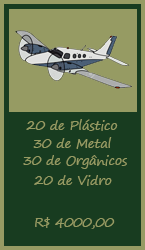
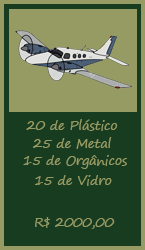
modificações para máscara de valores, distribuição de itens a cada rodada e mudança na carta do avião

Changed region(s): [[0.1655, 0.532, 0.3586, 0.672], [0.2207, 0.7, 0.3862, 0.756], [0.3586, 0.868, 0.4414, 0.924]]

diff --git a/BancoImobiliario/src/br/org/recresiduos/telas/GameBoard.java b/BancoImobiliario/src/br/org/recresiduos/telas/GameBoard.java
@@ -10,8 +10,10 @@ import br.org.recresiduos.constantes.CorJogador;
 import br.org.recresiduos.constantes.TipodeMateriais;
 import br.org.recresiduos.entidades.Casa;
 import br.org.recresiduos.entidades.Jogador;
+import br.org.recresiduos.uteis.MascaraValor;
 import java.awt.Component;
 import java.awt.Cursor;
+import java.text.DecimalFormat;
 import java.util.ArrayList;
 import java.util.List;
 import javax.swing.ImageIcon;
@@ -389,6 +391,16 @@ public class GameBoard extends javax.swing.JFrame {
             poePeaoCasa(nroCasa, j.getPeaoJogador());
             // atualiza o número da casa onde o jogador se encontra
             j.setNumeroCasa(nroCasa);
+            // se completou uma volta no tabuleiro, ganha itens extras
+            if(j.getNumeroCasa()==1){
+                j.getMaterialColetado().setQtdeMetal(j.getMaterialColetado().getQtdeMetal()+3);
+                j.getMaterialColetado().setQtdeMadeira(j.getMaterialColetado().getQtdeMadeira()+3);
+                j.getMaterialColetado().setQtdePlastico(j.getMaterialColetado().getQtdePlastico()+3);
+                j.getMaterialColetado().setQtdePapel(j.getMaterialColetado().getQtdePapel()+3);
+                j.getMaterialColetado().setQtdeOrganico(j.getMaterialColetado().getQtdeOrganico()+3);
+                j.getMaterialColetado().setQtdeVidro(j.getMaterialColetado().getQtdeVidro()+3);
+            }
+                
             // força pausa de 0,01 segundos
             try {
                 Thread.sleep(300);
@@ -531,21 +543,24 @@ public class GameBoard extends javax.swing.JFrame {
     }
 
     private void atualizaInformacaoJogador(Jogador j) {
+
+
         switch (j.getCor()) {
             case AMARELO:
-                jLValorSaldoAmarelo.setText(String.valueOf(j.getSaldo()));
+//                jLValorSaldoAmarelo.setText(String.valueOf(j.getSaldo()));
+                jLValorSaldoAmarelo.setText(new MascaraValor(j.getSaldo()).numeroFormatado());
                 jLQtdeObjetivoAmarelo.setText(String.valueOf(j.getNumeroObjetivosConcluidos()));
                 break;
             case AZUL:
-                jLValorSaldoAzul.setText(String.valueOf(j.getSaldo()));
+                jLValorSaldoAzul.setText(new MascaraValor(j.getSaldo()).numeroFormatado());
                 jLQtdeObjetivoAzul.setText(String.valueOf(j.getNumeroObjetivosConcluidos()));
                 break;
             case BRANCO:
-                jLValorSaldoBranco.setText(String.valueOf(j.getSaldo()));
+                jLValorSaldoBranco.setText(new MascaraValor(j.getSaldo()).numeroFormatado());
                 jLQtdeObjetivoBranco.setText(String.valueOf(j.getNumeroObjetivosConcluidos()));
                 break;
             case PRETO:
-                jLValorSaldoPreto.setText(String.valueOf(j.getSaldo()));
+                jLValorSaldoPreto.setText(new MascaraValor(j.getSaldo()).numeroFormatado());
                 jLQtdeObjetivoPreto.setText(String.valueOf(j.getNumeroObjetivosConcluidos()));
                 break;
         }
@@ -690,6 +705,7 @@ public class GameBoard extends javax.swing.JFrame {
         jLP5.setBorder(javax.swing.BorderFactory.createLineBorder(new java.awt.Color(0, 0, 0)));
         jLP5.setMaximumSize(new java.awt.Dimension(75, 120));
         jLP5.setMinimumSize(new java.awt.Dimension(75, 120));
+        jLP5.setPreferredSize(new java.awt.Dimension(75, 120));
 
         javax.swing.GroupLayout jLP5Layout = new javax.swing.GroupLayout(jLP5);
         jLP5.setLayout(jLP5Layout);
@@ -731,7 +747,7 @@ public class GameBoard extends javax.swing.JFrame {
         );
         jLP7Layout.setVerticalGroup(
             jLP7Layout.createParallelGroup(javax.swing.GroupLayout.Alignment.LEADING)
-            .addGap(0, 118, Short.MAX_VALUE)
+            .addGap(0, 120, Short.MAX_VALUE)
         );
 
         jLP8.setBackground(new java.awt.Color(153, 255, 153));
@@ -747,7 +763,7 @@ public class GameBoard extends javax.swing.JFrame {
         );
         jLP8Layout.setVerticalGroup(
             jLP8Layout.createParallelGroup(javax.swing.GroupLayout.Alignment.LEADING)
-            .addGap(0, 118, Short.MAX_VALUE)
+            .addGap(0, 120, Short.MAX_VALUE)
         );
 
         jLP9.setBackground(new java.awt.Color(153, 255, 153));
@@ -763,7 +779,7 @@ public class GameBoard extends javax.swing.JFrame {
         );
         jLP9Layout.setVerticalGroup(
             jLP9Layout.createParallelGroup(javax.swing.GroupLayout.Alignment.LEADING)
-            .addGap(0, 118, Short.MAX_VALUE)
+            .addGap(0, 119, Short.MAX_VALUE)
         );
 
         jLP10.setBackground(new java.awt.Color(153, 255, 153));
@@ -779,7 +795,7 @@ public class GameBoard extends javax.swing.JFrame {
         );
         jLP10Layout.setVerticalGroup(
             jLP10Layout.createParallelGroup(javax.swing.GroupLayout.Alignment.LEADING)
-            .addGap(0, 118, Short.MAX_VALUE)
+            .addGap(0, 120, Short.MAX_VALUE)
         );
 
         jLP11.setBackground(new java.awt.Color(153, 255, 153));
@@ -1397,15 +1413,16 @@ public class GameBoard extends javax.swing.JFrame {
         jLNroRodada.setHorizontalAlignment(javax.swing.SwingConstants.CENTER);
         jLNroRodada.setText("Jogada: ");
         jLNroRodada.setHorizontalTextPosition(javax.swing.SwingConstants.CENTER);
-        jLNroRodada.setMaximumSize(new java.awt.Dimension(318, 34));
-        jLNroRodada.setMinimumSize(new java.awt.Dimension(318, 34));
+        jLNroRodada.setMaximumSize(new java.awt.Dimension(257, 34));
+        jLNroRodada.setMinimumSize(new java.awt.Dimension(257, 34));
         jLNroRodada.setOpaque(true);
-        jLNroRodada.setPreferredSize(new java.awt.Dimension(318, 34));
+        jLNroRodada.setPreferredSize(new java.awt.Dimension(257, 34));
 
         jLP4.setBackground(new java.awt.Color(153, 255, 153));
         jLP4.setBorder(javax.swing.BorderFactory.createLineBorder(new java.awt.Color(0, 0, 0)));
         jLP4.setMaximumSize(new java.awt.Dimension(75, 120));
         jLP4.setMinimumSize(new java.awt.Dimension(75, 120));
+        jLP4.setPreferredSize(new java.awt.Dimension(75, 120));
 
         javax.swing.GroupLayout jLP4Layout = new javax.swing.GroupLayout(jLP4);
         jLP4.setLayout(jLP4Layout);
@@ -1477,20 +1494,22 @@ public class GameBoard extends javax.swing.JFrame {
                                 .addPreferredGap(javax.swing.LayoutStyle.ComponentPlacement.RELATED)
                                 .addComponent(jLP2, javax.swing.GroupLayout.PREFERRED_SIZE, javax.swing.GroupLayout.DEFAULT_SIZE, javax.swing.GroupLayout.PREFERRED_SIZE))
                             .addComponent(jBNovoJogo, javax.swing.GroupLayout.PREFERRED_SIZE, javax.swing.GroupLayout.DEFAULT_SIZE, javax.swing.GroupLayout.PREFERRED_SIZE))
-                        .addGap(6, 6, 6)
                         .addGroup(jPFundoTelaLayout.createParallelGroup(javax.swing.GroupLayout.Alignment.LEADING)
-                            .addComponent(jLabel1, javax.swing.GroupLayout.PREFERRED_SIZE, 482, javax.swing.GroupLayout.PREFERRED_SIZE)
                             .addGroup(jPFundoTelaLayout.createSequentialGroup()
-                                .addComponent(jLP3, javax.swing.GroupLayout.PREFERRED_SIZE, javax.swing.GroupLayout.DEFAULT_SIZE, javax.swing.GroupLayout.PREFERRED_SIZE)
-                                .addPreferredGap(javax.swing.LayoutStyle.ComponentPlacement.RELATED)
-                                .addComponent(jLP4, javax.swing.GroupLayout.PREFERRED_SIZE, javax.swing.GroupLayout.DEFAULT_SIZE, javax.swing.GroupLayout.PREFERRED_SIZE)
-                                .addPreferredGap(javax.swing.LayoutStyle.ComponentPlacement.RELATED)
-                                .addGroup(jPFundoTelaLayout.createParallelGroup(javax.swing.GroupLayout.Alignment.LEADING, false)
-                                    .addComponent(jLNroRodada, javax.swing.GroupLayout.PREFERRED_SIZE, 0, Short.MAX_VALUE)
+                                .addGap(6, 6, 6)
+                                .addGroup(jPFundoTelaLayout.createParallelGroup(javax.swing.GroupLayout.Alignment.LEADING)
+                                    .addComponent(jLabel1, javax.swing.GroupLayout.PREFERRED_SIZE, 482, javax.swing.GroupLayout.PREFERRED_SIZE)
                                     .addGroup(jPFundoTelaLayout.createSequentialGroup()
+                                        .addComponent(jLP3, javax.swing.GroupLayout.PREFERRED_SIZE, javax.swing.GroupLayout.DEFAULT_SIZE, javax.swing.GroupLayout.PREFERRED_SIZE)
+                                        .addPreferredGap(javax.swing.LayoutStyle.ComponentPlacement.RELATED)
+                                        .addComponent(jLP4, javax.swing.GroupLayout.PREFERRED_SIZE, javax.swing.GroupLayout.DEFAULT_SIZE, javax.swing.GroupLayout.PREFERRED_SIZE)
+                                        .addPreferredGap(javax.swing.LayoutStyle.ComponentPlacement.RELATED)
                                         .addComponent(jLP5, javax.swing.GroupLayout.PREFERRED_SIZE, javax.swing.GroupLayout.DEFAULT_SIZE, javax.swing.GroupLayout.PREFERRED_SIZE)
                                         .addPreferredGap(javax.swing.LayoutStyle.ComponentPlacement.RELATED)
-                                        .addComponent(jLP6, javax.swing.GroupLayout.PREFERRED_SIZE, javax.swing.GroupLayout.DEFAULT_SIZE, javax.swing.GroupLayout.PREFERRED_SIZE)))))
+                                        .addComponent(jLP6, javax.swing.GroupLayout.PREFERRED_SIZE, javax.swing.GroupLayout.DEFAULT_SIZE, javax.swing.GroupLayout.PREFERRED_SIZE))))
+                            .addGroup(jPFundoTelaLayout.createSequentialGroup()
+                                .addGap(109, 109, 109)
+                                .addComponent(jLNroRodada, javax.swing.GroupLayout.PREFERRED_SIZE, javax.swing.GroupLayout.DEFAULT_SIZE, javax.swing.GroupLayout.PREFERRED_SIZE)))
                         .addGap(8, 8, 8)
                         .addComponent(jBSair, javax.swing.GroupLayout.PREFERRED_SIZE, 0, Short.MAX_VALUE)))
                 .addContainerGap(javax.swing.GroupLayout.DEFAULT_SIZE, Short.MAX_VALUE))
@@ -1509,26 +1528,26 @@ public class GameBoard extends javax.swing.JFrame {
                 .addPreferredGap(javax.swing.LayoutStyle.ComponentPlacement.RELATED)
                 .addGroup(jPFundoTelaLayout.createParallelGroup(javax.swing.GroupLayout.Alignment.LEADING)
                     .addGroup(jPFundoTelaLayout.createSequentialGroup()
-                        .addComponent(jLP4, javax.swing.GroupLayout.DEFAULT_SIZE, javax.swing.GroupLayout.DEFAULT_SIZE, Short.MAX_VALUE)
-                        .addPreferredGap(javax.swing.LayoutStyle.ComponentPlacement.RELATED))
-                    .addGroup(jPFundoTelaLayout.createSequentialGroup()
                         .addGroup(jPFundoTelaLayout.createParallelGroup(javax.swing.GroupLayout.Alignment.LEADING)
-                            .addComponent(jLP7, javax.swing.GroupLayout.DEFAULT_SIZE, javax.swing.GroupLayout.DEFAULT_SIZE, javax.swing.GroupLayout.PREFERRED_SIZE)
-                            .addComponent(jLP8, javax.swing.GroupLayout.DEFAULT_SIZE, javax.swing.GroupLayout.DEFAULT_SIZE, javax.swing.GroupLayout.PREFERRED_SIZE)
-                            .addComponent(jLP10, javax.swing.GroupLayout.DEFAULT_SIZE, javax.swing.GroupLayout.DEFAULT_SIZE, javax.swing.GroupLayout.PREFERRED_SIZE)
+                            .addComponent(jLP7, javax.swing.GroupLayout.DEFAULT_SIZE, javax.swing.GroupLayout.DEFAULT_SIZE, Short.MAX_VALUE)
+                            .addComponent(jLP8, javax.swing.GroupLayout.DEFAULT_SIZE, javax.swing.GroupLayout.DEFAULT_SIZE, Short.MAX_VALUE)
+                            .addComponent(jLP10, javax.swing.GroupLayout.DEFAULT_SIZE, javax.swing.GroupLayout.DEFAULT_SIZE, Short.MAX_VALUE)
                             .addGroup(javax.swing.GroupLayout.Alignment.TRAILING, jPFundoTelaLayout.createSequentialGroup()
                                 .addGap(0, 0, Short.MAX_VALUE)
-                                .addComponent(jLP9, javax.swing.GroupLayout.DEFAULT_SIZE, javax.swing.GroupLayout.DEFAULT_SIZE, javax.swing.GroupLayout.PREFERRED_SIZE))
+                                .addComponent(jLP9, javax.swing.GroupLayout.DEFAULT_SIZE, javax.swing.GroupLayout.DEFAULT_SIZE, Short.MAX_VALUE))
                             .addGroup(jPFundoTelaLayout.createParallelGroup(javax.swing.GroupLayout.Alignment.TRAILING, false)
                                 .addComponent(jLP2, javax.swing.GroupLayout.Alignment.LEADING, javax.swing.GroupLayout.DEFAULT_SIZE, javax.swing.GroupLayout.DEFAULT_SIZE, Short.MAX_VALUE)
-                                .addComponent(jLP1, javax.swing.GroupLayout.Alignment.LEADING, javax.swing.GroupLayout.DEFAULT_SIZE, javax.swing.GroupLayout.DEFAULT_SIZE, javax.swing.GroupLayout.PREFERRED_SIZE))
+                                .addComponent(jLP1, javax.swing.GroupLayout.Alignment.LEADING, javax.swing.GroupLayout.DEFAULT_SIZE, javax.swing.GroupLayout.DEFAULT_SIZE, Short.MAX_VALUE))
                             .addGroup(jPFundoTelaLayout.createParallelGroup(javax.swing.GroupLayout.Alignment.TRAILING, false)
                                 .addComponent(jLP6, javax.swing.GroupLayout.Alignment.LEADING, javax.swing.GroupLayout.DEFAULT_SIZE, javax.swing.GroupLayout.DEFAULT_SIZE, Short.MAX_VALUE)
                                 .addComponent(jLP5, javax.swing.GroupLayout.Alignment.LEADING, javax.swing.GroupLayout.DEFAULT_SIZE, javax.swing.GroupLayout.DEFAULT_SIZE, Short.MAX_VALUE)))
                         .addPreferredGap(javax.swing.LayoutStyle.ComponentPlacement.RELATED))
                     .addGroup(javax.swing.GroupLayout.Alignment.TRAILING, jPFundoTelaLayout.createSequentialGroup()
-                        .addGap(0, 0, Short.MAX_VALUE)
-                        .addComponent(jLP3, javax.swing.GroupLayout.PREFERRED_SIZE, javax.swing.GroupLayout.DEFAULT_SIZE, javax.swing.GroupLayout.PREFERRED_SIZE)
+                        .addGroup(jPFundoTelaLayout.createParallelGroup(javax.swing.GroupLayout.Alignment.TRAILING)
+                            .addComponent(jLP4, javax.swing.GroupLayout.Alignment.LEADING, javax.swing.GroupLayout.DEFAULT_SIZE, javax.swing.GroupLayout.DEFAULT_SIZE, Short.MAX_VALUE)
+                            .addGroup(jPFundoTelaLayout.createSequentialGroup()
+                                .addGap(0, 0, Short.MAX_VALUE)
+                                .addComponent(jLP3, javax.swing.GroupLayout.DEFAULT_SIZE, javax.swing.GroupLayout.DEFAULT_SIZE, Short.MAX_VALUE)))
                         .addGap(8, 8, 8)))
                 .addGroup(jPFundoTelaLayout.createParallelGroup(javax.swing.GroupLayout.Alignment.LEADING, false)
                     .addGroup(jPFundoTelaLayout.createSequentialGroup()
@@ -1757,5 +1776,5 @@ public class GameBoard extends javax.swing.JFrame {
     private List<Casa> casas;
     private int nroRodada = 1;
     
-    private final int jogadasMaximo = 5;
+    private final int jogadasMaximo = 30;
 }

diff --git a/BancoImobiliario/src/br/org/recresiduos/telas/GameOver.java b/BancoImobiliario/src/br/org/recresiduos/telas/GameOver.java
@@ -7,6 +7,7 @@ package br.org.recresiduos.telas;
 
 import br.org.recresiduos.entidades.Jogador;
 import br.org.recresiduos.uteis.Arredonda;
+import br.org.recresiduos.uteis.MascaraValor;
 
 /**
  *
@@ -71,25 +72,25 @@ public class GameOver extends javax.swing.JDialog {
         if(!jog[0].getNome().trim().isEmpty()){
             jPQuarto.setBackground(jLFimJogo.getBackground());
             jLJogadorQua.setText("Jogador: " + jog[0].getNome());
-            jLSaldoQua.setText(String.valueOf(jog[0].getSaldo()));
+            jLSaldoQua.setText(new MascaraValor(jog[0].getSaldo()).numeroFormatado());
         }
 
         if(!jog[1].getNome().trim().isEmpty()){
             jPTerceiro.setBackground(jLFimJogo.getBackground());
             jLJogadorTer.setText("Jogador: " + jog[1].getNome());
-            jLSaldoTer.setText(String.valueOf(jog[1].getSaldo()));
+            jLSaldoTer.setText(new MascaraValor(jog[1].getSaldo()).numeroFormatado());
         }
 
         if(!jog[2].getNome().trim().isEmpty()){
             jPSegundo.setBackground(jLFimJogo.getBackground());
             jLJogadorSeg.setText("Jogador: " + jog[2].getNome());
-            jLSaldoSeg.setText(String.valueOf(jog[2].getSaldo()));
+            jLSaldoSeg.setText(new MascaraValor(jog[2].getSaldo()).numeroFormatado());
         }
 
         if(!jog[3].getNome().trim().isEmpty()){
             jPGanhador.setBackground(jLFimJogo.getBackground());
             jLJogadorGanhador.setText("Jogador: " + jog[3].getNome());
-            jLSaldoGanhador.setText(String.valueOf(jog[3].getSaldo()));
+            jLSaldoGanhador.setText(new MascaraValor(jog[3].getSaldo()).numeroFormatado());
         }
 //        
 //        if (jog[3] != null) {

diff --git a/BancoImobiliario/src/br/org/recresiduos/telas/ColetarMaterialCasa.java b/BancoImobiliario/src/br/org/recresiduos/telas/ColetarMaterialCasa.java
@@ -9,6 +9,7 @@ import br.org.recresiduos.constantes.TipodeMateriais;
 import br.org.recresiduos.entidades.Casa;
 import br.org.recresiduos.entidades.Jogador;
 import br.org.recresiduos.uteis.Arredonda;
+import br.org.recresiduos.uteis.MascaraValor;
 import java.util.Random;
 import javax.swing.JOptionPane;
 
@@ -969,7 +970,7 @@ public class ColetarMaterialCasa extends javax.swing.JDialog {
         }
         
         ganhoReciclagem = new Arredonda(ganhoReciclagem).valorArredondado();
-        JOptionPane.showMessageDialog(null, "Você lucrou " + ganhoReciclagem + " reciclando seus materiais!");
+        JOptionPane.showMessageDialog(null, "Você lucrou " + new MascaraValor(ganhoReciclagem).numeroFormatado() + " reciclando seus materiais!");
 
         // atualiza os labels de quantidade de material
         atualizaLabelsMaterialColetado();

diff --git a/BancoImobiliario/src/br/org/recresiduos/uteis/MascaraValor.java b/BancoImobiliario/src/br/org/recresiduos/uteis/MascaraValor.java
@@ -1,0 +1,29 @@
+/*
+ * To change this license header, choose License Headers in Project Properties.
+ * To change this template file, choose Tools | Templates
+ * and open the template in the editor.
+ */
+package br.org.recresiduos.uteis;
+
+import java.text.DecimalFormat;
+
+/**
+ *
+ * @author Paulo
+ */
+public class MascaraValor {
+
+    private final String mascara = "R$ ##,###.##";
+    private double valor;
+    private DecimalFormat df;
+
+    public MascaraValor(double valor) {
+        this.valor = valor;
+        this.df = new DecimalFormat(this.mascara);
+    }
+    
+    public String numeroFormatado(){
+        return (df.format(this.valor));
+    }
+    
+}

diff --git a/BancoImobiliario/src/br/org/recresiduos/telas/TelaSorteaCartas.java b/BancoImobiliario/src/br/org/recresiduos/telas/TelaSorteaCartas.java
@@ -99,11 +99,11 @@ public class TelaSorteaCartas extends javax.swing.JDialog {
         cartas.add(obj);
         // Carta 010
         img = new ImageIcon(getClass().getResource("/imagensbir/CartaObjetivoFrente010.png"));
-        obj = new Objetivo("Avião", 4000, img);
+        obj = new Objetivo("Avião", 2000, img);
         obj.setQtdePlastico(20);
-        obj.setQtdeMetal(30);
-        obj.setQtdeOrganico(30);
-        obj.setQtdeVidro(20);
+        obj.setQtdeMetal(25);
+        obj.setQtdeOrganico(15);
+        obj.setQtdeVidro(15);
         cartas.add(obj);
 
         // embaralha as cartas, enquanto a lista original não estiver vazia
